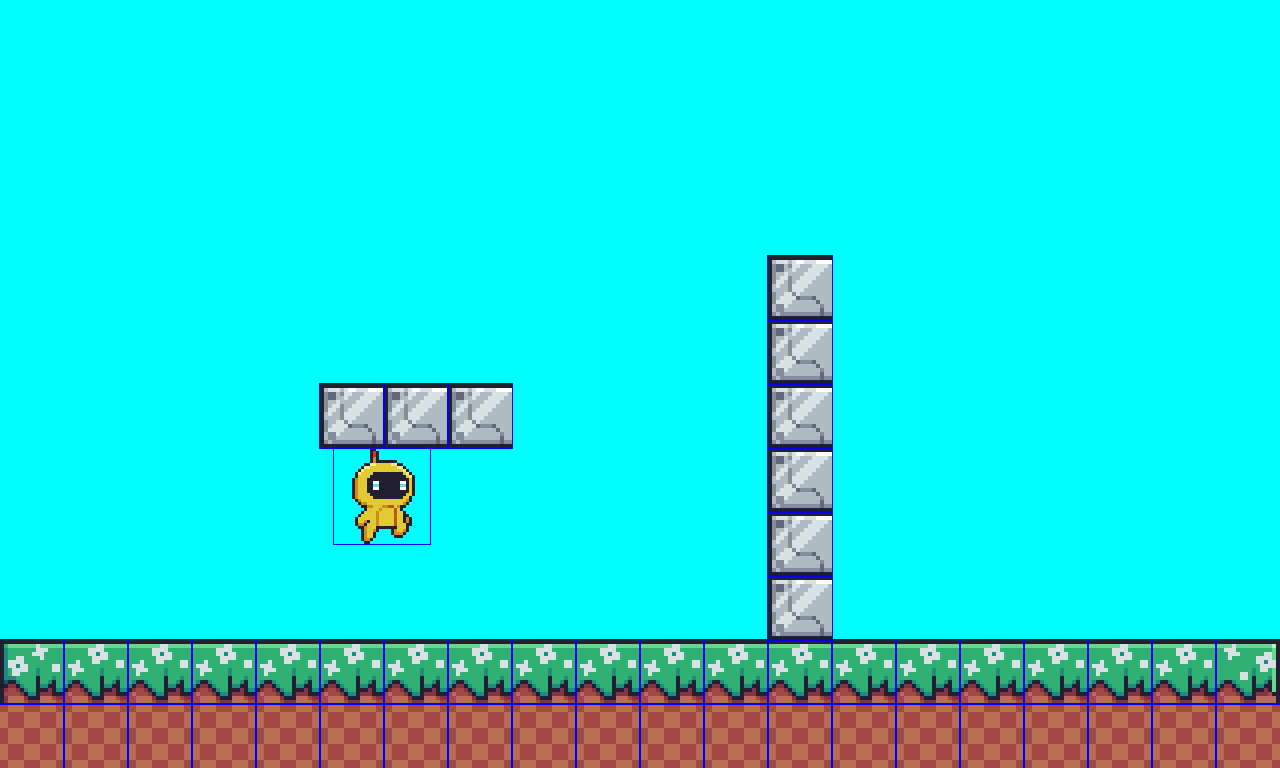
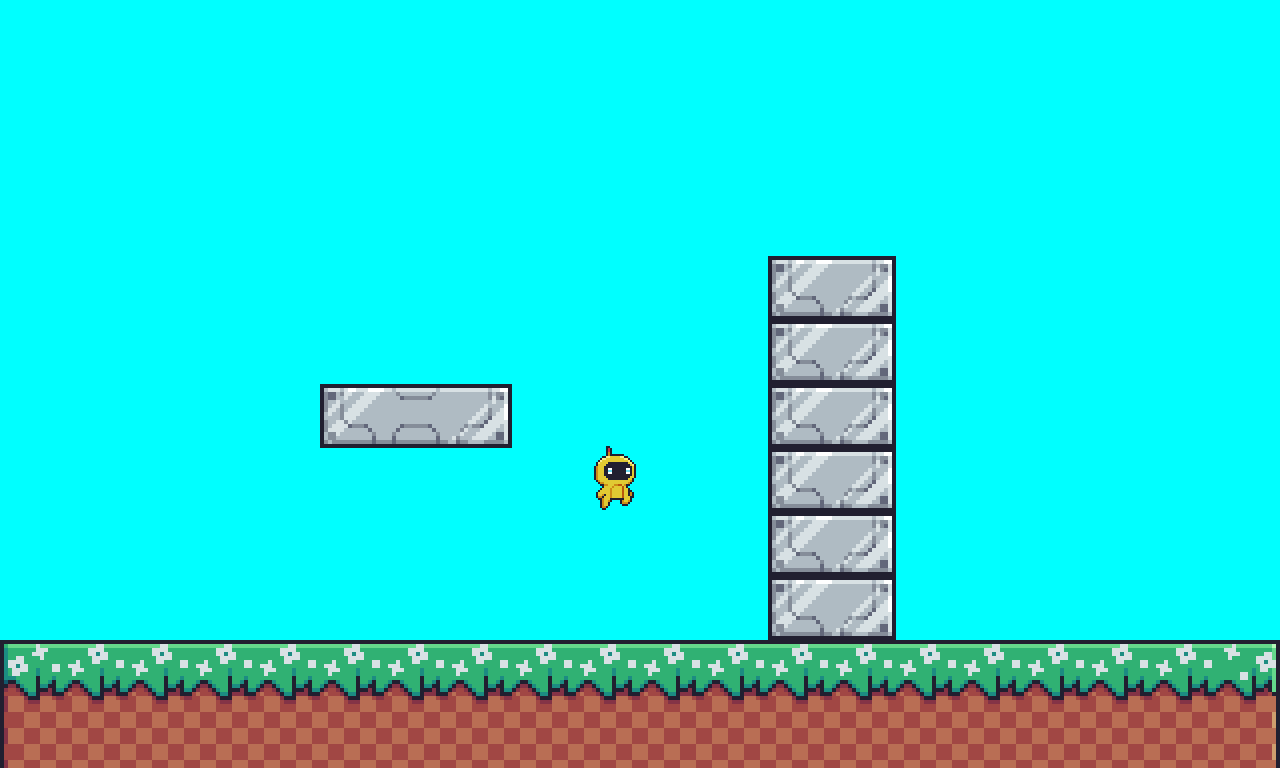
Updated the structure of the platforms game. Added a shop scene and a settings scene. Working on views and cameras

diff --git a/Endless Jumper - OOP/Scene_Play.cpp b/Endless Jumper - OOP/Scene_Play.cpp
@@ -22,10 +22,9 @@ void Scene_Play::init(const std::string& levelPath) {
 	registerAction(sf::Keyboard::T, "TOGGLE_TEXTURE"); // Toggle drawing textures
 	registerAction(sf::Keyboard::C, "TOGGLE_COLLISION"); // Toggle drawing collision boxes
 	registerAction(sf::Keyboard::G, "TOGGLE_GRID");
-	registerAction(sf::Keyboard::W, "UP");
+	// registerAction(sf::Keyboard::W, "UP"); POSSIBLE DOUBLE JUMP LATER
 	registerAction(sf::Keyboard::A, "LEFT");
 	registerAction(sf::Keyboard::D, "RIGHT");
-	registerAction(sf::Keyboard::S, "DOWN");
 
 	// TODO: REGISTER ALL OTHER GAMEPLAY ACTIONS
 
@@ -41,35 +40,20 @@ void Scene_Play::sDoAction(const Action& action) {
 		else if (action.name() == "TOGGLE_GRID") { m_drawGrid = !m_drawGrid; }
 		else if (action.name() == "PAUSE") { setPaused(!m_paused); }
 		else if (action.name() == "QUIT") { onEnd(); }
-		if (action.name() == "UP") {
-			m_player->getComponent<CInput>().up = false;
-			if (m_player->getComponent<CInput>().canJump) {
-				m_player->getComponent<CInput>().up = true;
-			}
-		}
 		if (action.name() == "RIGHT") {
 			m_player->getComponent<CInput>().right = true;	
 		}
 		if (action.name() == "LEFT") {
 			m_player->getComponent<CInput>().left = true;
 		}
-		if (action.name() == "DOWN") {
-			m_player->getComponent<CInput>().down = true;
-		}
 		// ADD REMAINING ACTIONS
 	}
 	else if (action.type() == "END") {
-		if (action.name() == "UP") {
-			m_player->getComponent<CInput>().up = false;
-		}
 		if (action.name() == "RIGHT") {
 			m_player->getComponent<CInput>().right = false;
 		}
 		if (action.name() == "LEFT") {
 			m_player->getComponent<CInput>().left = false;
-		}
-		if (action.name() == "DOWN") {
-			m_player->getComponent<CInput>().down = false;
 		}
 	}
 }
@@ -92,7 +76,7 @@ void Scene_Play::spawnBullet(std::shared_ptr<Entity> entity) {
 void Scene_Play::spawnPlayer() {
 	// sample code
 	m_player = m_entityManager.addEntity("player");
-	m_player->addComponent<CAnimation>(m_game->getAssets().getAnimation("playerRun"), false);
+	m_player->addComponent<CAnimation>(m_game->getAssets().getAnimation("playerFall"), false);
 	m_player->getComponent<CAnimation>().animation.getSprite().setScale(2, 2);
 	auto size = m_player->getComponent<CAnimation>().animation.getSprite().getGlobalBounds();
 	m_player->addComponent<CBoundingBox>(Vec2(size.getSize().x, size.getSize().y));
@@ -137,10 +121,14 @@ void Scene_Play::loadLevel(const std::string& levelpath) {
 }
 
 void Scene_Play::sRender() {
-	m_game->window().clear(sf::Color::Cyan);
+	auto & player_pos = m_player->getComponent<CTransform>().pos;
+	auto& window = m_game->window();
+	sf::View view(sf::Vector2f(window.getSize().x/2, player_pos.y), sf::Vector2f(1280.f, 720.f));
+	window.clear(sf::Color::Cyan);
+	window.setView(view);
 	if (m_drawTextures) {
 		for (auto e : m_entityManager.getEntities()) {
-			m_game->window().draw(e->getComponent<CAnimation>().animation.getSprite());
+			window.draw(e->getComponent<CAnimation>().animation.getSprite());
 		}
 	}
 
@@ -154,7 +142,7 @@ void Scene_Play::sRender() {
 			BoundingBox.setOutlineColor(sf::Color::Blue);
 			BoundingBox.setFillColor(sf::Color::Transparent);
 			BoundingBox.setOutlineThickness(1);
-			m_game->window().draw(BoundingBox);
+			window.draw(BoundingBox);
 		}
 	}
 	if (m_drawGrid) {
@@ -162,17 +150,17 @@ void Scene_Play::sRender() {
 			sf::RectangleShape linex(sf::Vector2f(m_game->window().getSize().x, 1));
 			linex.setFillColor(sf::Color::White);
 			linex.setPosition(0, 64*i);
-			m_game->window().draw(linex);
+			window.draw(linex);
 		}
 		for (int i = 1; i < 20; i++) {
 			sf::RectangleShape liney(sf::Vector2f(m_game->window().getSize().y, 1));
 			liney.rotate(90);
 			liney.setFillColor(sf::Color::White);
 			liney.setPosition(64*i, 0);
-			m_game->window().draw(liney);
+			window.draw(liney);
 		}
 	}
-	m_game->window().display();
+	window.display();
 }
 
 void Scene_Play::sAnimation() {
@@ -185,19 +173,9 @@ void Scene_Play::sAnimation() {
 			animation = m_game->getAssets().getAnimation("playerJump");
 		}
 	}
-	else if (player_state == "idle") {
-		if (animation.getName() != "playerIdle") {
-			animation = m_game->getAssets().getAnimation("playerIdle");
-		}
-	}
 	else if (player_state == "fall") {
 		if (animation.getName() != "playerFall") {
 			animation = m_game->getAssets().getAnimation("playerFall");
-		}
-	}
-	else if (player_state == "run") {
-		if (animation.getName() != "playerRun") {
-			animation = m_game->getAssets().getAnimation("playerRun");
 		}
 	}
 
@@ -235,7 +213,7 @@ void Scene_Play::sCollision() {
 				// stand on tile
 				m_player->getComponent<CInput>().canJump = true;
 				m_player->getComponent<CGravity>().gravity = 0;
-				player.velocity.y = 0;
+				player.velocity.y = -20;
 				// collision resolution
 				player.pos.y -= overlap.y;
 			}
@@ -290,12 +268,8 @@ void Scene_Play::sMovement() {
 	if (player_pos.y > player.prevPos.y) {
 		m_player->getComponent<CState>().state = "fall";
 	}
-	if (input.up) {
-		if (m_player->getComponent<CInput>().canJump) {
-			player_velocity.y = -8;
-			m_player->getComponent<CInput>().canJump = false;
-			m_player->getComponent<CState>().state = "jump";
-		}
+	if (player_pos.y < player.prevPos.y) {
+		m_player->getComponent<CState>().state = "jump";
 	}
 
 	m_player->getComponent<CTransform>().prevPos = player_pos;

diff --git a/Endless Jumper - OOP/Scene_Settings.cpp b/Endless Jumper - OOP/Scene_Settings.cpp
@@ -1,18 +1,16 @@
 #pragma warning(disable : 4996)
 
-#include "Scene_Menu.h"
-#include "Scene_Shop.h"
 #include "Scene_Settings.h"
-#include "Scene_Play.h"
+#include "Scene_Menu.h"
 #include "GameEngine.h"
 
-Scene_Menu::Scene_Menu(GameEngine* gameEngine)
+Scene_Settings::Scene_Settings(GameEngine* gameEngine)
 	: Scene(gameEngine)
 {
 	init();
 }
 
-void Scene_Menu::init() {
+void Scene_Settings::init() {
 	registerAction(sf::Keyboard::P, "PAUSE");
 	registerAction(sf::Keyboard::Escape, "QUIT");
 	registerAction(sf::Keyboard::Enter, "ENTER");
@@ -29,18 +27,17 @@ void Scene_Menu::init() {
 	// Calculate middle of the screen in X axis
 	auto mx = m_window.getSize().x / 2;
 	// Set the titleText
-	m_titleText = sf::Text(m_title, f, 80);
 	// Set it's position and it's color
 	m_titleText.setPosition(mx - m_titleText.getGlobalBounds().width / 2.f, 50);
 	m_titleText.setColor(sf::Color::Black);
-	
+
 	// Constant for the fontSize of the levels
 	int levels_fontSize = 50;
 
 	// Add levels text to the vector
-	m_texts.push_back(sf::Text("Play", f, levels_fontSize));
-	m_texts.push_back(sf::Text("Shop", f, levels_fontSize));
-	m_texts.push_back(sf::Text("Settings", f, levels_fontSize));
+	m_texts.push_back(sf::Text("Element 1", f, levels_fontSize));
+	m_texts.push_back(sf::Text("Element 2", f, levels_fontSize));
+	m_texts.push_back(sf::Text("Element 3", f, levels_fontSize));
 
 	std::string helpText("UP: W   DOWN: S   ENTER: ENTER   BACK: ESC");
 	m_texts.push_back(sf::Text(helpText, f, 30));
@@ -52,43 +49,33 @@ void Scene_Menu::init() {
 	}
 }
 
-void Scene_Menu::update() {
+void Scene_Settings::update() {
 	m_entityManager.update();
 	sRender();
 }
 
-void Scene_Menu::onEnd() {
-	m_game->quit();
+void Scene_Settings::onEnd() {
+	m_game->changeScene("MENU", std::make_shared<Scene_Menu>(m_game), true);
 }
 
-void Scene_Menu::sDoAction(const Action& action) {
+
+void Scene_Settings::sDoAction(const Action& action) {
 	if (action.type() == "START") {
 		if (action.name() == "PAUSE") { setPaused(!m_paused); }
 		else if (action.name() == "QUIT") { onEnd(); }
-		else if (action.name() == "ENTER") {
-			if (m_selectedMenuIndex == 0) {
-				m_game->changeScene("PLAY", std::make_shared<Scene_Play>(m_game, "level1.txt"), true);
-			}
-			else if (m_selectedMenuIndex == 1) {
-				m_game->changeScene("SHOP", std::make_shared<Scene_Shop>(m_game), true);
-			}
-			else if (m_selectedMenuIndex == 2) {
-				m_game->changeScene("SETTINGS", std::make_shared<Scene_Settings>(m_game), true);
-			}
-		}
+		else if (action.name() == "ENTER") { std::cout << "ENTER PRESSED" << std::endl; }
 		else if (action.name() == "DOWN") { m_selectedMenuIndex = (m_selectedMenuIndex + 1) % 3; }
 		else if (action.name() == "UP") { m_selectedMenuIndex = (m_selectedMenuIndex + 2) % 3; }
 	}
 }
 
-void Scene_Menu::sRender() {
+void Scene_Settings::sRender() {
 	// Store sf::window in a variable for more convenience
 	auto& m_window = m_game->window();
-	m_window.setView(m_window.getDefaultView());
 	// Calculate middle of the screen in X axis
 	auto mx = m_window.getSize().x / 2;
 	// Clear the window with blue
-	m_window.clear(sf::Color::Yellow);
+	m_window.clear(sf::Color::Magenta);
 
 	// Iterate through the text vector and set their respective color and position
 	for (int i = 0; i < 3; i++) {

diff --git a/Endless Jumper - OOP/Scene_Shop.cpp b/Endless Jumper - OOP/Scene_Shop.cpp
@@ -1,18 +1,16 @@
 #pragma warning(disable : 4996)
 
-#include "Scene_Menu.h"
 #include "Scene_Shop.h"
-#include "Scene_Settings.h"
-#include "Scene_Play.h"
+#include "Scene_Menu.h"
 #include "GameEngine.h"
 
-Scene_Menu::Scene_Menu(GameEngine* gameEngine)
+Scene_Shop::Scene_Shop(GameEngine* gameEngine)
 	: Scene(gameEngine)
 {
 	init();
 }
 
-void Scene_Menu::init() {
+void Scene_Shop::init() {
 	registerAction(sf::Keyboard::P, "PAUSE");
 	registerAction(sf::Keyboard::Escape, "QUIT");
 	registerAction(sf::Keyboard::Enter, "ENTER");
@@ -29,18 +27,17 @@ void Scene_Menu::init() {
 	// Calculate middle of the screen in X axis
 	auto mx = m_window.getSize().x / 2;
 	// Set the titleText
-	m_titleText = sf::Text(m_title, f, 80);
 	// Set it's position and it's color
 	m_titleText.setPosition(mx - m_titleText.getGlobalBounds().width / 2.f, 50);
 	m_titleText.setColor(sf::Color::Black);
-	
+
 	// Constant for the fontSize of the levels
 	int levels_fontSize = 50;
 
 	// Add levels text to the vector
-	m_texts.push_back(sf::Text("Play", f, levels_fontSize));
-	m_texts.push_back(sf::Text("Shop", f, levels_fontSize));
-	m_texts.push_back(sf::Text("Settings", f, levels_fontSize));
+	m_texts.push_back(sf::Text("Element 1", f, levels_fontSize));
+	m_texts.push_back(sf::Text("Element 2", f, levels_fontSize));
+	m_texts.push_back(sf::Text("Element 3", f, levels_fontSize));
 
 	std::string helpText("UP: W   DOWN: S   ENTER: ENTER   BACK: ESC");
 	m_texts.push_back(sf::Text(helpText, f, 30));
@@ -52,43 +49,32 @@ void Scene_Menu::init() {
 	}
 }
 
-void Scene_Menu::update() {
+void Scene_Shop::update() {
 	m_entityManager.update();
 	sRender();
 }
 
-void Scene_Menu::onEnd() {
-	m_game->quit();
+void Scene_Shop::onEnd() {
+	m_game->changeScene("MENU", std::make_shared<Scene_Menu>(m_game), true);
 }
 
-void Scene_Menu::sDoAction(const Action& action) {
+void Scene_Shop::sDoAction(const Action& action) {
 	if (action.type() == "START") {
 		if (action.name() == "PAUSE") { setPaused(!m_paused); }
 		else if (action.name() == "QUIT") { onEnd(); }
-		else if (action.name() == "ENTER") {
-			if (m_selectedMenuIndex == 0) {
-				m_game->changeScene("PLAY", std::make_shared<Scene_Play>(m_game, "level1.txt"), true);
-			}
-			else if (m_selectedMenuIndex == 1) {
-				m_game->changeScene("SHOP", std::make_shared<Scene_Shop>(m_game), true);
-			}
-			else if (m_selectedMenuIndex == 2) {
-				m_game->changeScene("SETTINGS", std::make_shared<Scene_Settings>(m_game), true);
-			}
-		}
+		else if (action.name() == "ENTER") { std::cout << "ENTER PRESSED" << std::endl; }
 		else if (action.name() == "DOWN") { m_selectedMenuIndex = (m_selectedMenuIndex + 1) % 3; }
 		else if (action.name() == "UP") { m_selectedMenuIndex = (m_selectedMenuIndex + 2) % 3; }
 	}
 }
 
-void Scene_Menu::sRender() {
+void Scene_Shop::sRender() {
 	// Store sf::window in a variable for more convenience
 	auto& m_window = m_game->window();
-	m_window.setView(m_window.getDefaultView());
 	// Calculate middle of the screen in X axis
 	auto mx = m_window.getSize().x / 2;
 	// Clear the window with blue
-	m_window.clear(sf::Color::Yellow);
+	m_window.clear(sf::Color::Green);
 
 	// Iterate through the text vector and set their respective color and position
 	for (int i = 0; i < 3; i++) {

diff --git a/Endless Jumper - OOP/Scene_Settings.h b/Endless Jumper - OOP/Scene_Settings.h
@@ -8,9 +8,8 @@
 #include <SFML/Graphics.hpp>
 #include "EntityManager.h"
 
-class Scene_Menu : public Scene {
+class Scene_Settings : public Scene {
 protected:
-	std::string m_title = "ENDLESS JUMPER";
 	sf::Text m_titleText;
 	std::vector<sf::Text> m_texts;
 	std::vector<std::string> m_menuStrings;
@@ -24,6 +23,6 @@ protected:
 	void sDoAction(const Action& action);
 
 public:
-	Scene_Menu(GameEngine* gameEngine = nullptr);
+	Scene_Settings(GameEngine* gameEngine = nullptr);
 	void sRender();
 };

diff --git a/Endless Jumper - OOP/Scene_Shop.h b/Endless Jumper - OOP/Scene_Shop.h
@@ -8,9 +8,8 @@
 #include <SFML/Graphics.hpp>
 #include "EntityManager.h"
 
-class Scene_Menu : public Scene {
+class Scene_Shop : public Scene {
 protected:
-	std::string m_title = "ENDLESS JUMPER";
 	sf::Text m_titleText;
 	std::vector<sf::Text> m_texts;
 	std::vector<std::string> m_menuStrings;
@@ -24,6 +23,6 @@ protected:
 	void sDoAction(const Action& action);
 
 public:
-	Scene_Menu(GameEngine* gameEngine = nullptr);
+	Scene_Shop(GameEngine* gameEngine = nullptr);
 	void sRender();
 };

diff --git a/Endless Jumper - OOP/GameEngine.cpp b/Endless Jumper - OOP/GameEngine.cpp
@@ -15,7 +15,7 @@ void GameEngine::init(const std::string& path) {
 	m_assets.loadFromFile(path);
 
 	// Create a window with the specified resolution
-	m_window.create(sf::VideoMode(1280, 768), "PLATFORMS GAME LOL");
+	m_window.create(sf::VideoMode(1280, 720), "ENDLESS JUMPER");
 	// Set vertical sync for better performance
 	m_window.setVerticalSyncEnabled(true);
 	changeScene("MENU", std::make_shared<Scene_Menu>(this), false);
